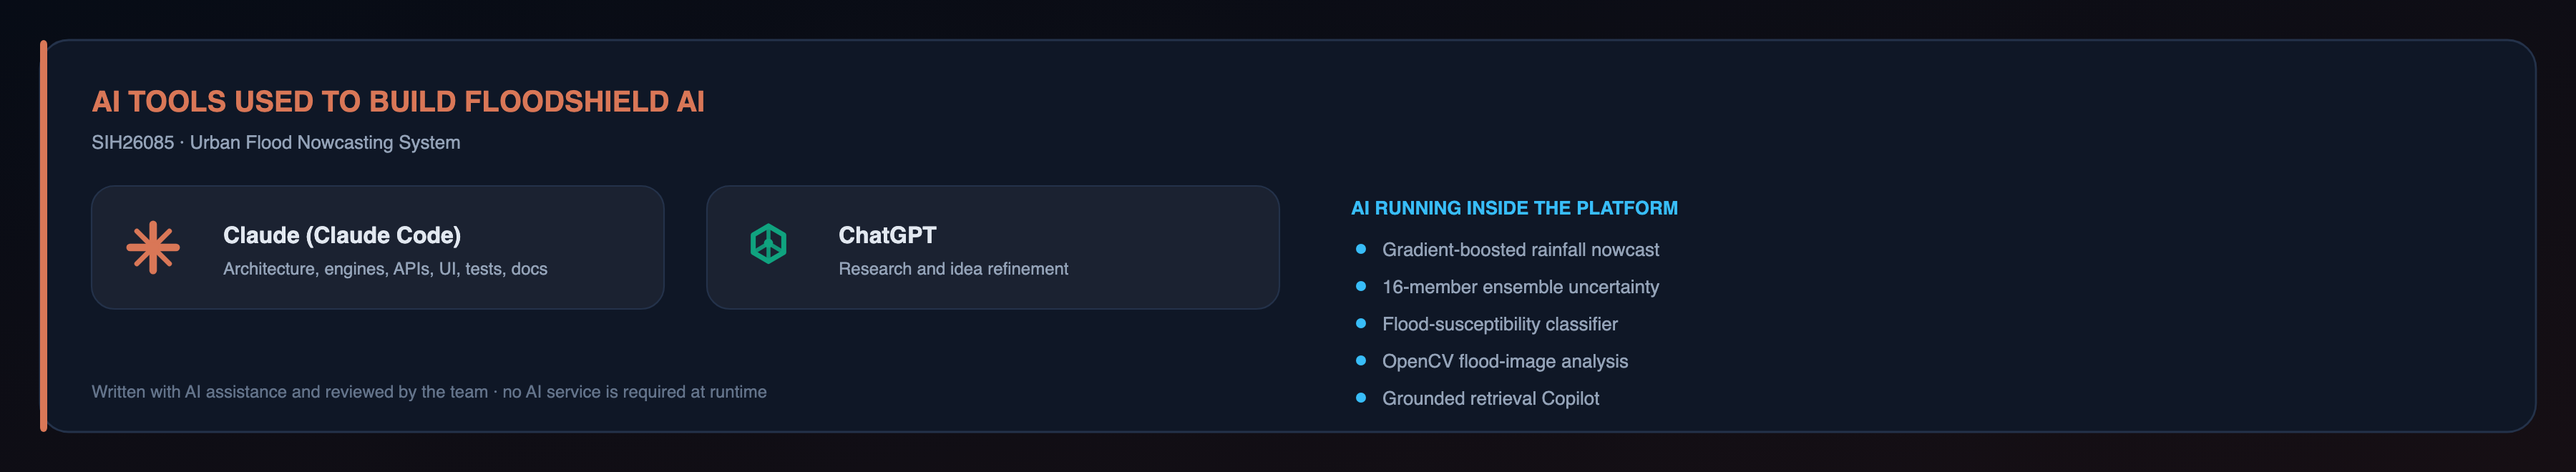
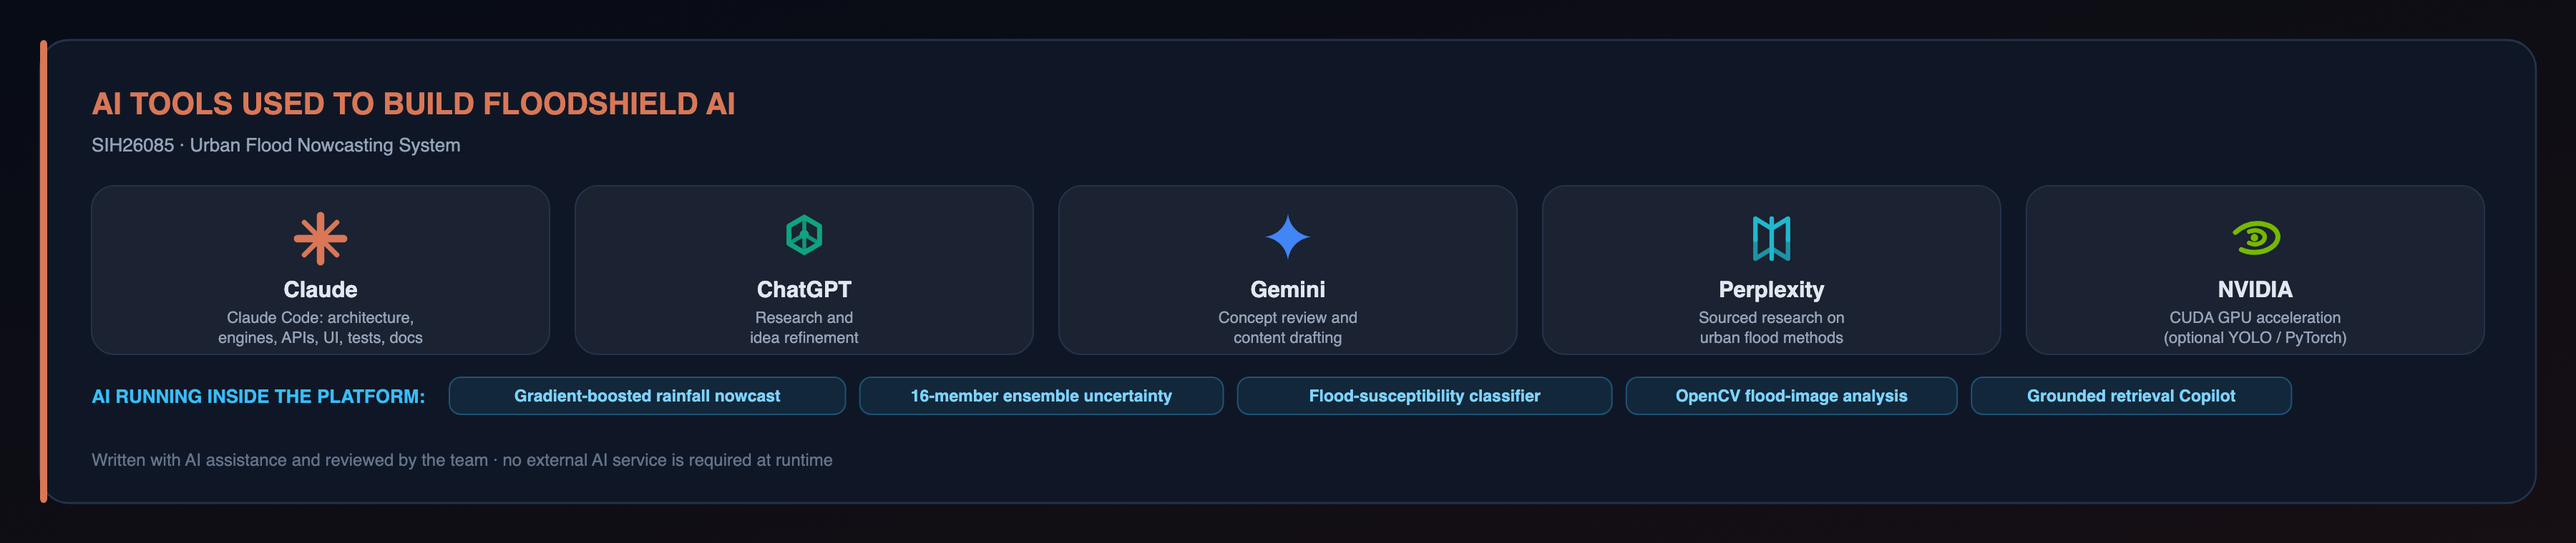
AI tools strip: add Gemini, Perplexity, NVIDIA

diff --git a/docs/assets/make_stack_image.py b/docs/assets/make_stack_image.py
@@ -212,6 +212,22 @@ def cursor_mark(c):
     return g(path("M6 3l13 7.5-5.6 1.6L10.5 18z", fill=c, op=0.9), path("M6 3v15", stroke=c, sw=1.2, op=0.5))
 
 
+def gemini_mark(c="#4285f4"):
+    return g(path("M12 2c.7 5.1 4.2 8.6 9.3 9.3-5.1.7-8.6 4.2-9.3 9.3-.7-5.1-4.2-8.6-9.3-9.3C7.8 10.6 11.3 7.1 12 2z", fill=c))
+
+
+def nvidia_mark(c="#76b900"):
+    return g(path("M4 9.5c3.4-3 7.6-4.2 11.8-3.2 3 .7 5.2 2.6 5.2 4.9 0 3.4-4.2 6.3-9.4 6.3-2 0-3.8-.4-5.2-1.1", stroke=c, sw=2),
+             path("M9.5 9.2c2.1-.9 4.4-.6 5.6.7 1.1 1.2.7 2.9-1 3.8-1.4.7-3.2.7-4.6 0", stroke=c, sw=1.8),
+             circle(11.6, 11.6, 1.5, fill=c))
+
+
+def perplexity_mark(c="#20b8cd"):
+    return g(path("M12 4v16", stroke=c, sw=1.8),
+             path("M12 8 5.5 4v8.5M12 8l6.5-4v8.5", stroke=c, sw=1.8),
+             path("M12 16l-6.5 4v-8.5M12 16l6.5 4v-8.5", stroke=c, sw=1.8, op=0.75))
+
+
 def html_mark(c="#e34f26"):
     return g(path("M4 3h16l-1.5 16L12 21l-6.5-2z", fill=c, op=0.9), txt(12, 15.5, "5", size=9, fill="#0b1220"))
 
@@ -396,10 +412,13 @@ def build_thin_svg() -> str:
 
 
 # ---------------------------------------------------------------- AI tools strip
-AW, AH = 1800, 330
+AW, AH = 1800, 380
 AI_TOOLS = [
-    ("Claude (Claude Code)", claude_mark(), "Architecture, engines, APIs, UI, tests, docs"),
-    ("ChatGPT", chatgpt_mark(), "Research and idea refinement"),
+    ("Claude", claude_mark(), "Claude Code: architecture,", "engines, APIs, UI, tests, docs"),
+    ("ChatGPT", chatgpt_mark(), "Research and", "idea refinement"),
+    ("Gemini", gemini_mark(), "Concept review and", "content drafting"),
+    ("Perplexity", perplexity_mark(), "Sourced research on", "urban flood methods"),
+    ("NVIDIA", nvidia_mark(), "CUDA GPU acceleration", "(optional YOLO / PyTorch)"),
 ]
 AI_IN_PRODUCT = ["Gradient-boosted rainfall nowcast", "16-member ensemble uncertainty", "Flood-susceptibility classifier",
                  "OpenCV flood-image analysis", "Grounded retrieval Copilot"]
@@ -411,22 +430,30 @@ def build_ai_svg() -> str:
              rect(0, 0, AW, AH, 0, fill="url(#bg)"),
              rect(28, 28, AW - 56, AH - 56, 20, fill=PANEL, stroke=LINE, sw=1.4),
              rect(28, 28, 5, AH - 56, 3, fill="#D97757"),
-             txt(64, 78, "AI TOOLS USED TO BUILD FLOODSHIELD AI", size=20, fill="#D97757", weight=800, anchor="start"),
-             txt(64, 104, "SIH26085 · Urban Flood Nowcasting System", size=13, fill=MUTED, weight=500, anchor="start")]
-    for i, (name, glyph, role) in enumerate(AI_TOOLS):
-        x = 64 + i * 430
+             txt(64, 80, "AI TOOLS USED TO BUILD FLOODSHIELD AI", size=21, fill="#D97757", weight=800, anchor="start"),
+             txt(64, 106, "SIH26085 · Urban Flood Nowcasting System", size=13, fill=MUTED, weight=500, anchor="start")]
+    x0, x1 = 64, AW - 64
+    n = len(AI_TOOLS)
+    gap = 18
+    cw = (x1 - x0 - gap * (n - 1)) / n
+    for i, (name, glyph, role1, role2) in enumerate(AI_TOOLS):
+        x = x0 + i * (cw + gap)
         y = 130
-        parts.append(g(rect(x, y, 400, 86, 16, fill="#ffffff", sw=0, op=0.05),
-                       rect(x, y, 400, 86, 16, fill="none", stroke=LINE, sw=1.1),
-                       f'<g transform="translate({x + 22} {y + 22}) scale(1.75)">{glyph}</g>',
-                       txt(x + 92, y + 40, name, size=16, fill=INK, weight=700, anchor="start"),
-                       txt(x + 92, y + 62, role, size=12, fill=MUTED, weight=500, anchor="start")))
-    ox = 64 + 2 * 430 + 20
-    parts.append(txt(ox, 150, "AI RUNNING INSIDE THE PLATFORM", size=13, fill=BRAND, weight=800, anchor="start"))
-    for i, item in enumerate(AI_IN_PRODUCT):
-        parts.append(g(circle(ox + 7, 174 + i * 26, 3.5, fill=BRAND),
-                       txt(ox + 22, 179 + i * 26, item, size=13, fill=MUTED, weight=500, anchor="start")))
-    parts.append(txt(64, AH - 52, "Written with AI assistance and reviewed by the team · no AI service is required at runtime",
+        parts.append(g(rect(x, y, cw, 118, 16, fill="#ffffff", sw=0, op=0.05),
+                       rect(x, y, cw, 118, 16, fill="none", stroke=LINE, sw=1.1),
+                       f'<g transform="translate({x + cw / 2 - 21:.1f} {y + 16}) scale(1.75)">{glyph}</g>',
+                       txt(x + cw / 2, y + 78, name, size=15.5, fill=INK, weight=700),
+                       txt(x + cw / 2, y + 96, role1, size=11, fill=MUTED, weight=500),
+                       txt(x + cw / 2, y + 110, role2, size=11, fill=MUTED, weight=500)))
+    py_ = 282
+    parts.append(txt(64, py_, "AI RUNNING INSIDE THE PLATFORM:", size=13, fill=BRAND, weight=800, anchor="start"))
+    cx_ = 64 + 250
+    for item in AI_IN_PRODUCT:
+        w_ = 7.6 * len(item) + 26
+        parts.append(g(rect(cx_, py_ - 18, w_, 26, 8, fill="#38bdf81a", stroke="#38bdf855", sw=1),
+                       txt(cx_ + w_ / 2, py_ - 1, item, size=11.5, fill="#7dd3fc", weight=600)))
+        cx_ += w_ + 10
+    parts.append(txt(64, AH - 54, "Written with AI assistance and reviewed by the team · no external AI service is required at runtime",
                      size=12, fill="#64748b", weight=500, anchor="start"))
     parts.append("</svg>")
     return "\n".join(parts)
